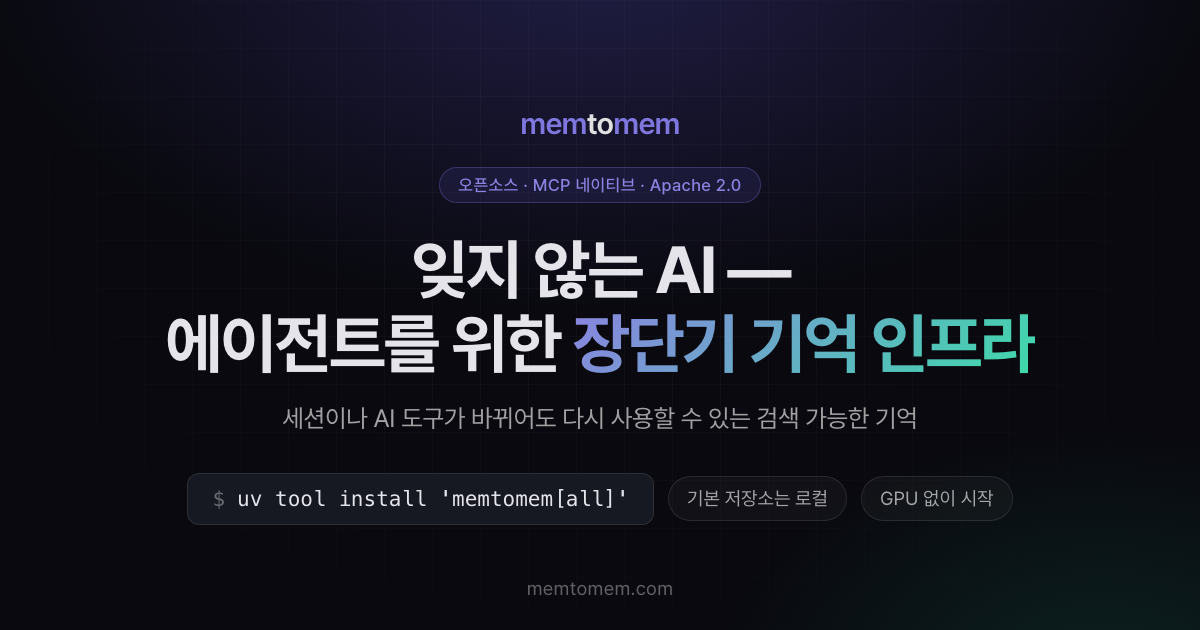
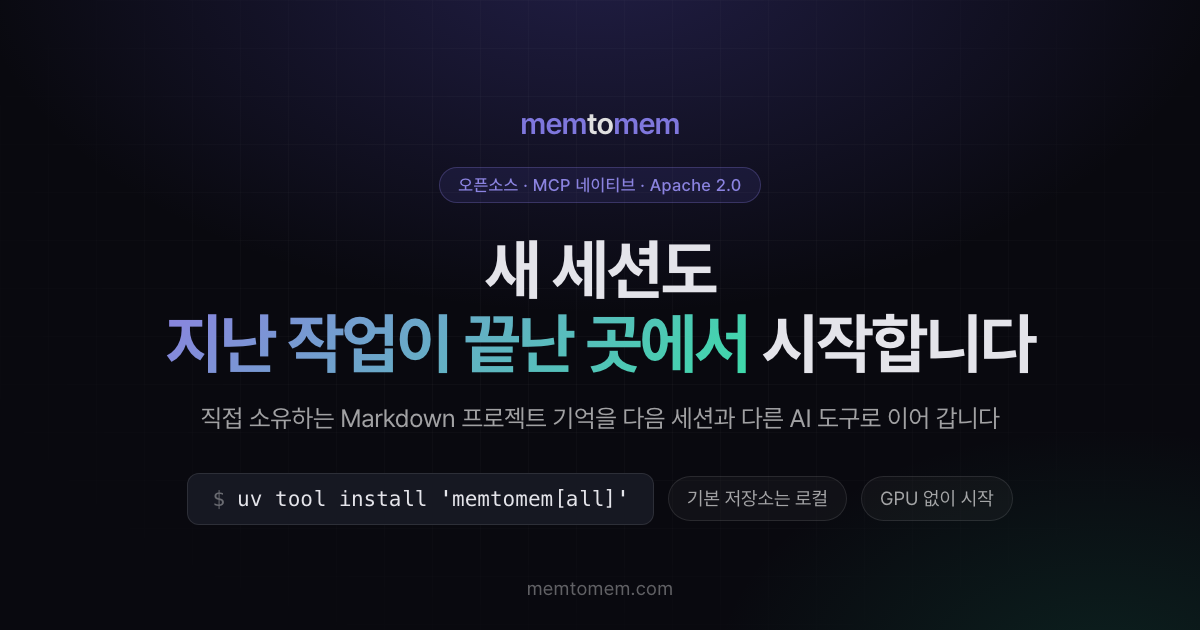
docs: lead the landing hero with the handoff, brief and update loop (#78)
The hero sold "memory infrastructure" in the abstract. The README now
opens with the session loop, so the landing page does too: a new h1,
a sub line, and three steps showing the real invocations in Claude
Code and Codex CLI, with a link to the project-workflows guide.

- Step copy follows ltm/project-workflows.md (EN; KO mirrors it):
  host invocation names (lines 36-37); save writes one record
  (line 57) into the .memtomem/memories.local tier (line 27); brief
  is read-only and lists active handoff IDs (lines 11, 82); resume
  compares the record with the live commit (line 61); update saves
  decisions, bug causes and preferences (line 12). "Runs only when
  you invoke it" is memtomem README.md:42.
- The stats row (9 / 10 / 5) is gone, with its CSS, the same way the
  OG cards dropped counts in #76.
- The OG cards carry the new headline (og-image.test.mjs requires it
  to match the landing h1), re-rendered with playwright 1.64.0, and
  design/og-image.json records the new hashes.
- Step labels use --text-2 (6.2:1 on --bg-1; --text-3 was 2.7:1).
  The list has role="list" because list-style: none drops list
  semantics in Safari, and the arrows are border-drawn so a screen
  reader has no glyph to announce.
- <title> and og/twitter descriptions still describe the product as a
  whole and are unchanged.

Changed region(s): [[0.1233, 0.3619, 0.8633, 0.6032], [0.1542, 0.6333, 0.8325, 0.6937]]

diff --git a/src/styles/landing.css b/src/styles/landing.css
@@ -134,15 +134,59 @@ a { color: inherit; text-decoration: none; }
 	font-size: 14px; color: var(--text-1); letter-spacing: -0.3px;
 }
 .hero-install .dollar { color: var(--text-3); user-select: none; }
-.hero-stats {
-	display: flex; justify-content: center; gap: 48px;
-	margin-top: 44px; font-size: 13px; color: var(--text-2);
+/* ── Hero session loop ────────────────── */
+.loop {
+	list-style: none; counter-reset: loop;
+	display: grid; grid-template-columns: repeat(3, 1fr); gap: 28px;
+	max-width: 920px; margin: 8px auto 40px; padding: 0;
+	text-align: left;
 }
-.hero-stats > div { text-align: center; white-space: nowrap; }
-.hero-stats strong {
-	font-weight: 700; color: var(--text-1);
-	font-size: 26px; display: block;
-	margin-bottom: 2px; letter-spacing: -0.5px;
+.loop-step {
+	position: relative; counter-increment: loop;
+	display: flex; flex-direction: column; gap: 8px;
+	background: var(--bg-1); border: 1px solid var(--border);
+	border-top: 2px solid var(--accent);
+	border-radius: var(--radius-lg); padding: 20px 20px 18px;
+}
+.loop-step.teal  { border-top-color: var(--teal); }
+.loop-step.coral { border-top-color: var(--coral); }
+/* Drawn with borders, not a glyph, so screen readers have nothing to announce. */
+.loop-step:not(:last-child)::after {
+	content: '';
+	position: absolute; right: -18px; top: 50%;
+	width: 7px; height: 7px;
+	border-top: 1.5px solid var(--text-3); border-right: 1.5px solid var(--text-3);
+	transform: translateY(-50%) rotate(45deg);
+}
+.loop-when {
+	font-size: 11px; font-weight: 600; letter-spacing: 0.6px;
+	text-transform: uppercase; color: var(--text-2);
+}
+.loop-when::before { content: counter(loop) '  '; color: var(--text-1); }
+.loop-cmd {
+	display: block; width: fit-content;
+	font-family: 'SF Mono', 'Fira Code', 'Consolas', monospace;
+	font-size: 13px; color: var(--text-1);
+	background: var(--bg-2); border: 1px solid var(--border);
+	border-radius: var(--radius-sm); padding: 5px 10px;
+}
+.loop-step.accent .loop-cmd { color: var(--accent); }
+.loop-step.teal .loop-cmd   { color: var(--teal); }
+.loop-step.coral .loop-cmd  { color: var(--coral); }
+.loop-step p { font-size: 13px; color: var(--text-2); line-height: 1.6; margin-top: 2px; }
+.loop-step p code { font-size: 12px; color: var(--text-1); }
+.hero-actions {
+	display: flex; flex-wrap: wrap; justify-content: center; align-items: center; gap: 14px 24px;
+}
+.hero-link { font-size: 14px; color: var(--accent); transition: color 0.15s; }
+.hero-link:hover { color: var(--text-1); }
+@media (max-width: 768px) {
+	.loop { grid-template-columns: 1fr; gap: 26px; margin-bottom: 32px; }
+	.loop-step:not(:last-child)::after {
+		right: auto; left: 50%; top: auto; bottom: -17px;
+		transform: translateX(-50%) rotate(135deg);
+	}
+	.loop-step { padding: 18px 16px 16px; }
 }
 
 /* ── Sections ─────────────────────────── */
@@ -391,9 +435,6 @@ a { color: inherit; text-decoration: none; }
 	.hero h1 { font-size: 28px; letter-spacing: -0.8px; }
 	.hero-sub { font-size: 14px; margin-bottom: 28px; }
 	.hero-install { font-size: 12px; padding: 10px 16px; }
-	.hero-stats { gap: 28px; flex-wrap: nowrap; justify-content: center; }
-	.hero-stats strong { font-size: 20px; }
-	.hero-stats > div { font-size: 11px; }
 	.section { padding: 48px 20px; }
 	.section-title { font-size: 24px; letter-spacing: -0.5px; }
 	.section-desc { font-size: 14px; margin-bottom: 28px; }

diff --git a/design/og-image.html b/design/og-image.html
@@ -99,8 +99,8 @@ h1 em {
 <div class="card" lang="en">
 	<div class="wordmark"><span class="m">mem</span><span class="t">to</span><span class="m">mem</span></div>
 	<div class="badge">Open source · MCP-native · Apache 2.0</div>
-	<h1>AI That Never Forgets —<br><em>Memory Infrastructure</em> for Agents</h1>
-	<p class="sub">Searchable memory any MCP-compatible agent can use, across sessions and agents.</p>
+	<h1>Every session starts<br><em>where the last one left off</em></h1>
+	<p class="sub">Project memory as Markdown you own, carried to the next session and the next agent.</p>
 	<div class="foot">
 		<div class="install"><span class="d">$</span>uv tool install 'memtomem[all]'</div>
 		<div class="chip">Local by default</div>
@@ -110,8 +110,8 @@ h1 em {
 <div class="card" lang="ko">
 	<div class="wordmark"><span class="m">mem</span><span class="t">to</span><span class="m">mem</span></div>
 	<div class="badge">오픈소스 · MCP 네이티브 · Apache 2.0</div>
-	<h1>잊지 않는 AI —<br>에이전트를 위한 <em>장단기 기억 인프라</em></h1>
-	<p class="sub">세션이나 AI 도구가 바뀌어도 다시 사용할 수 있는 검색 가능한 기억</p>
+	<h1>새 세션도<br><em>지난 작업이 끝난 곳에서</em> 시작합니다</h1>
+	<p class="sub">직접 소유하는 Markdown 프로젝트 기억을 다음 세션과 다른 AI 도구로 이어 갑니다</p>
 	<div class="foot">
 		<div class="install"><span class="d">$</span>uv tool install 'memtomem[all]'</div>
 		<div class="chip">기본 저장소는 로컬</div>
